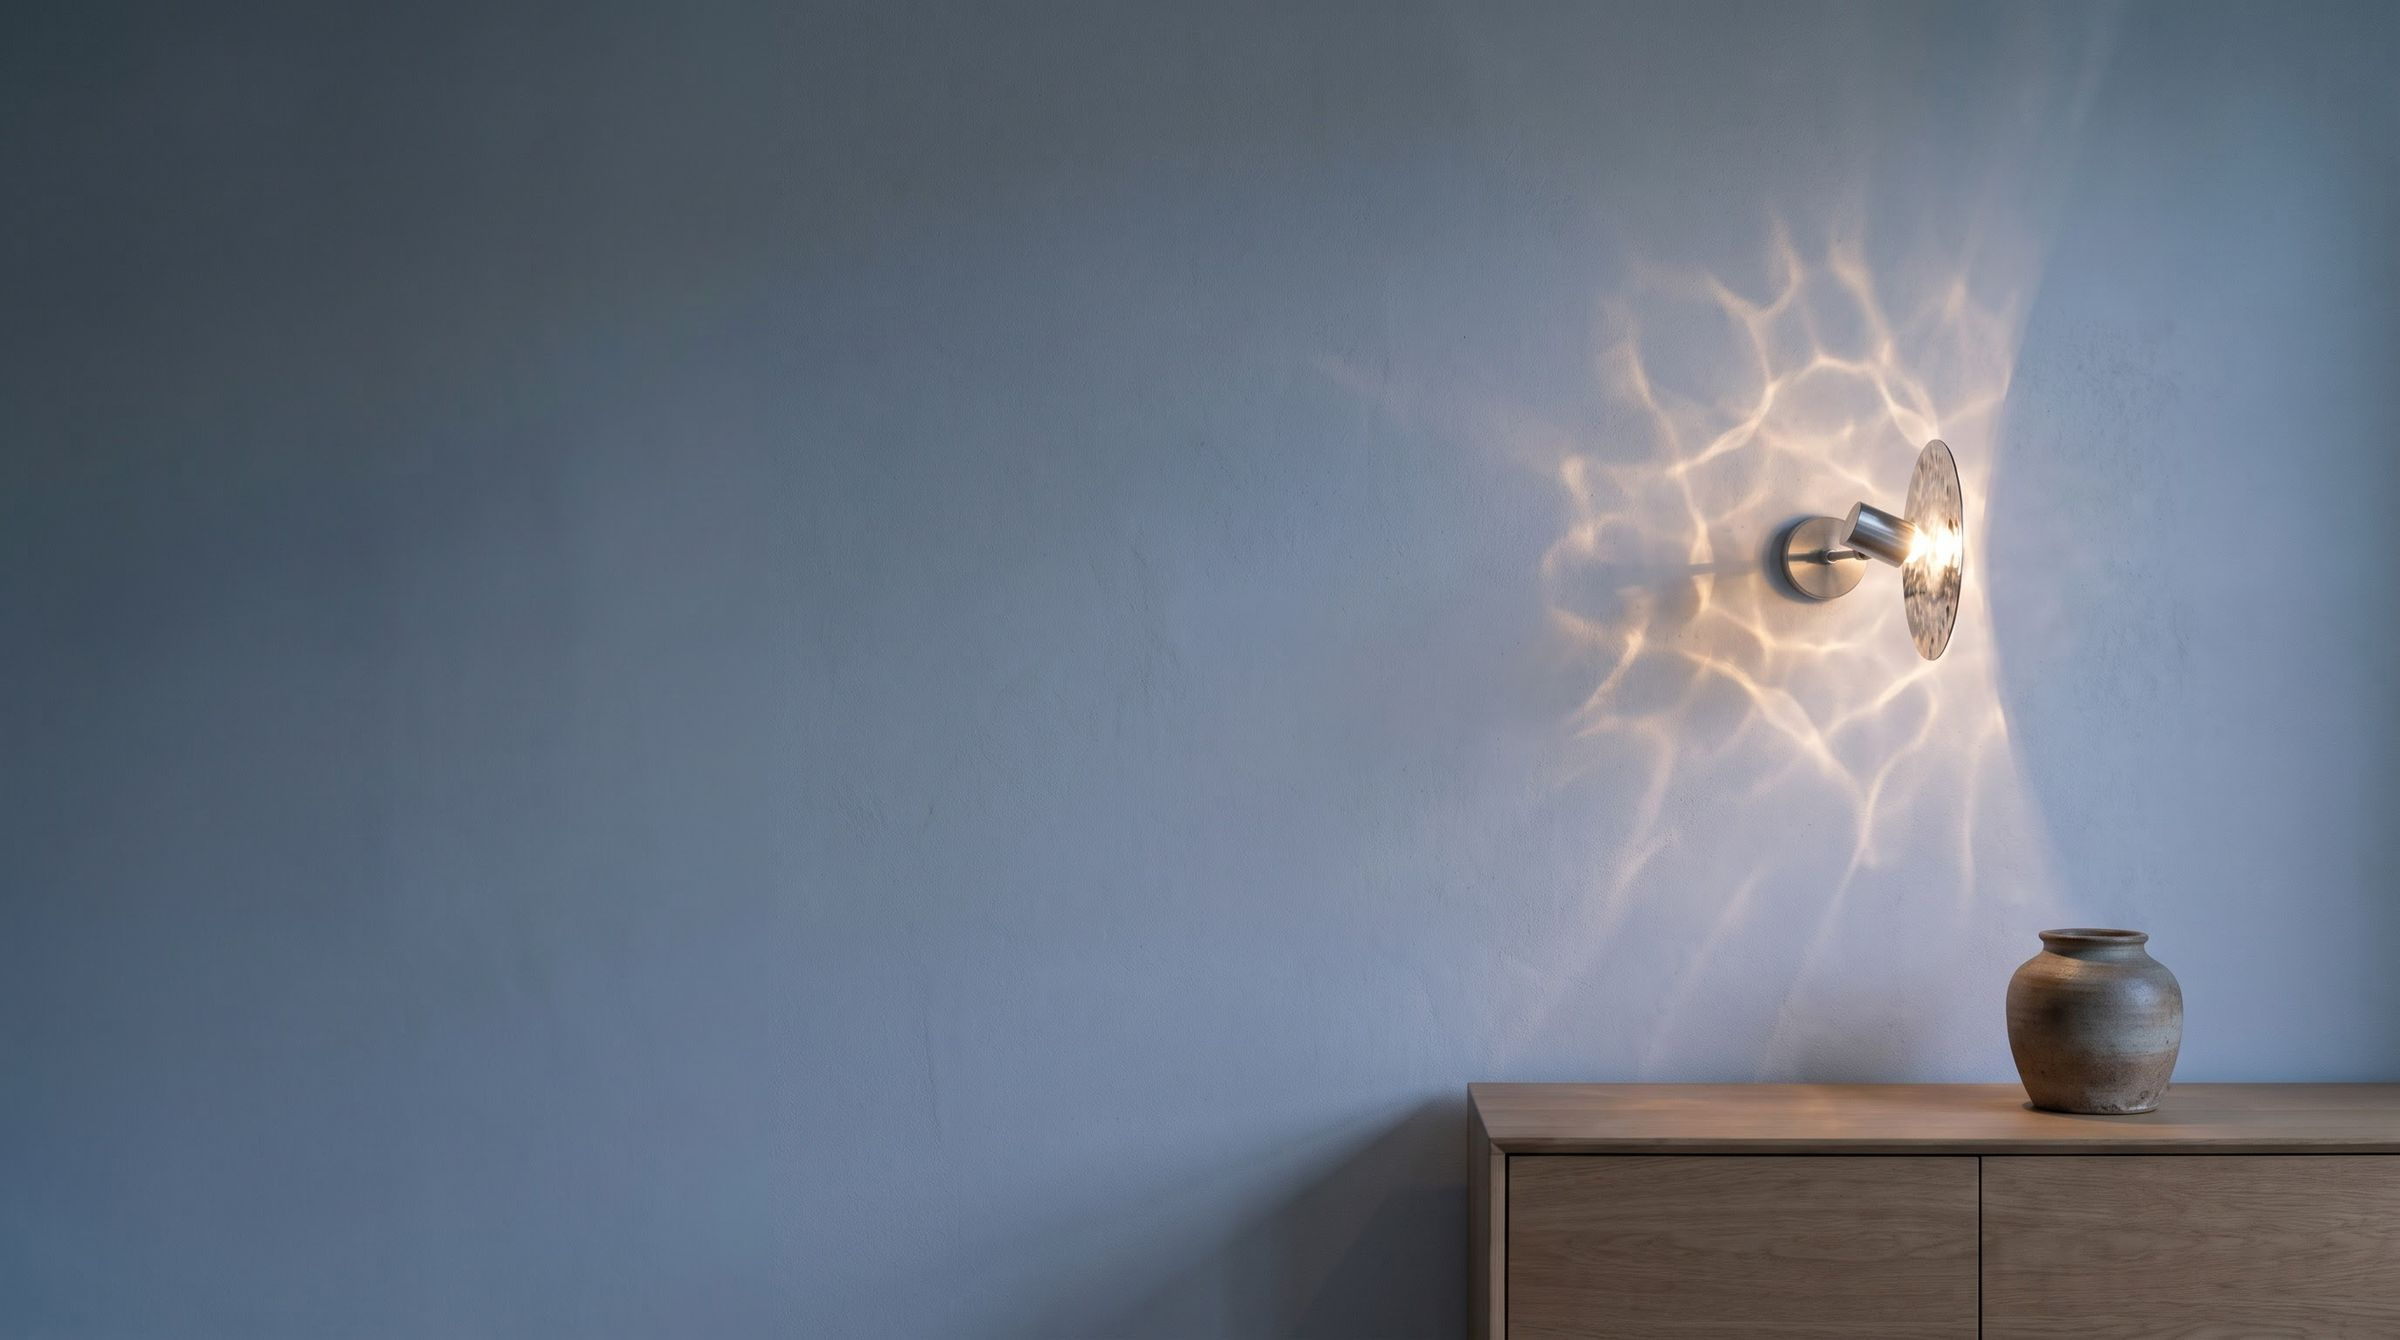
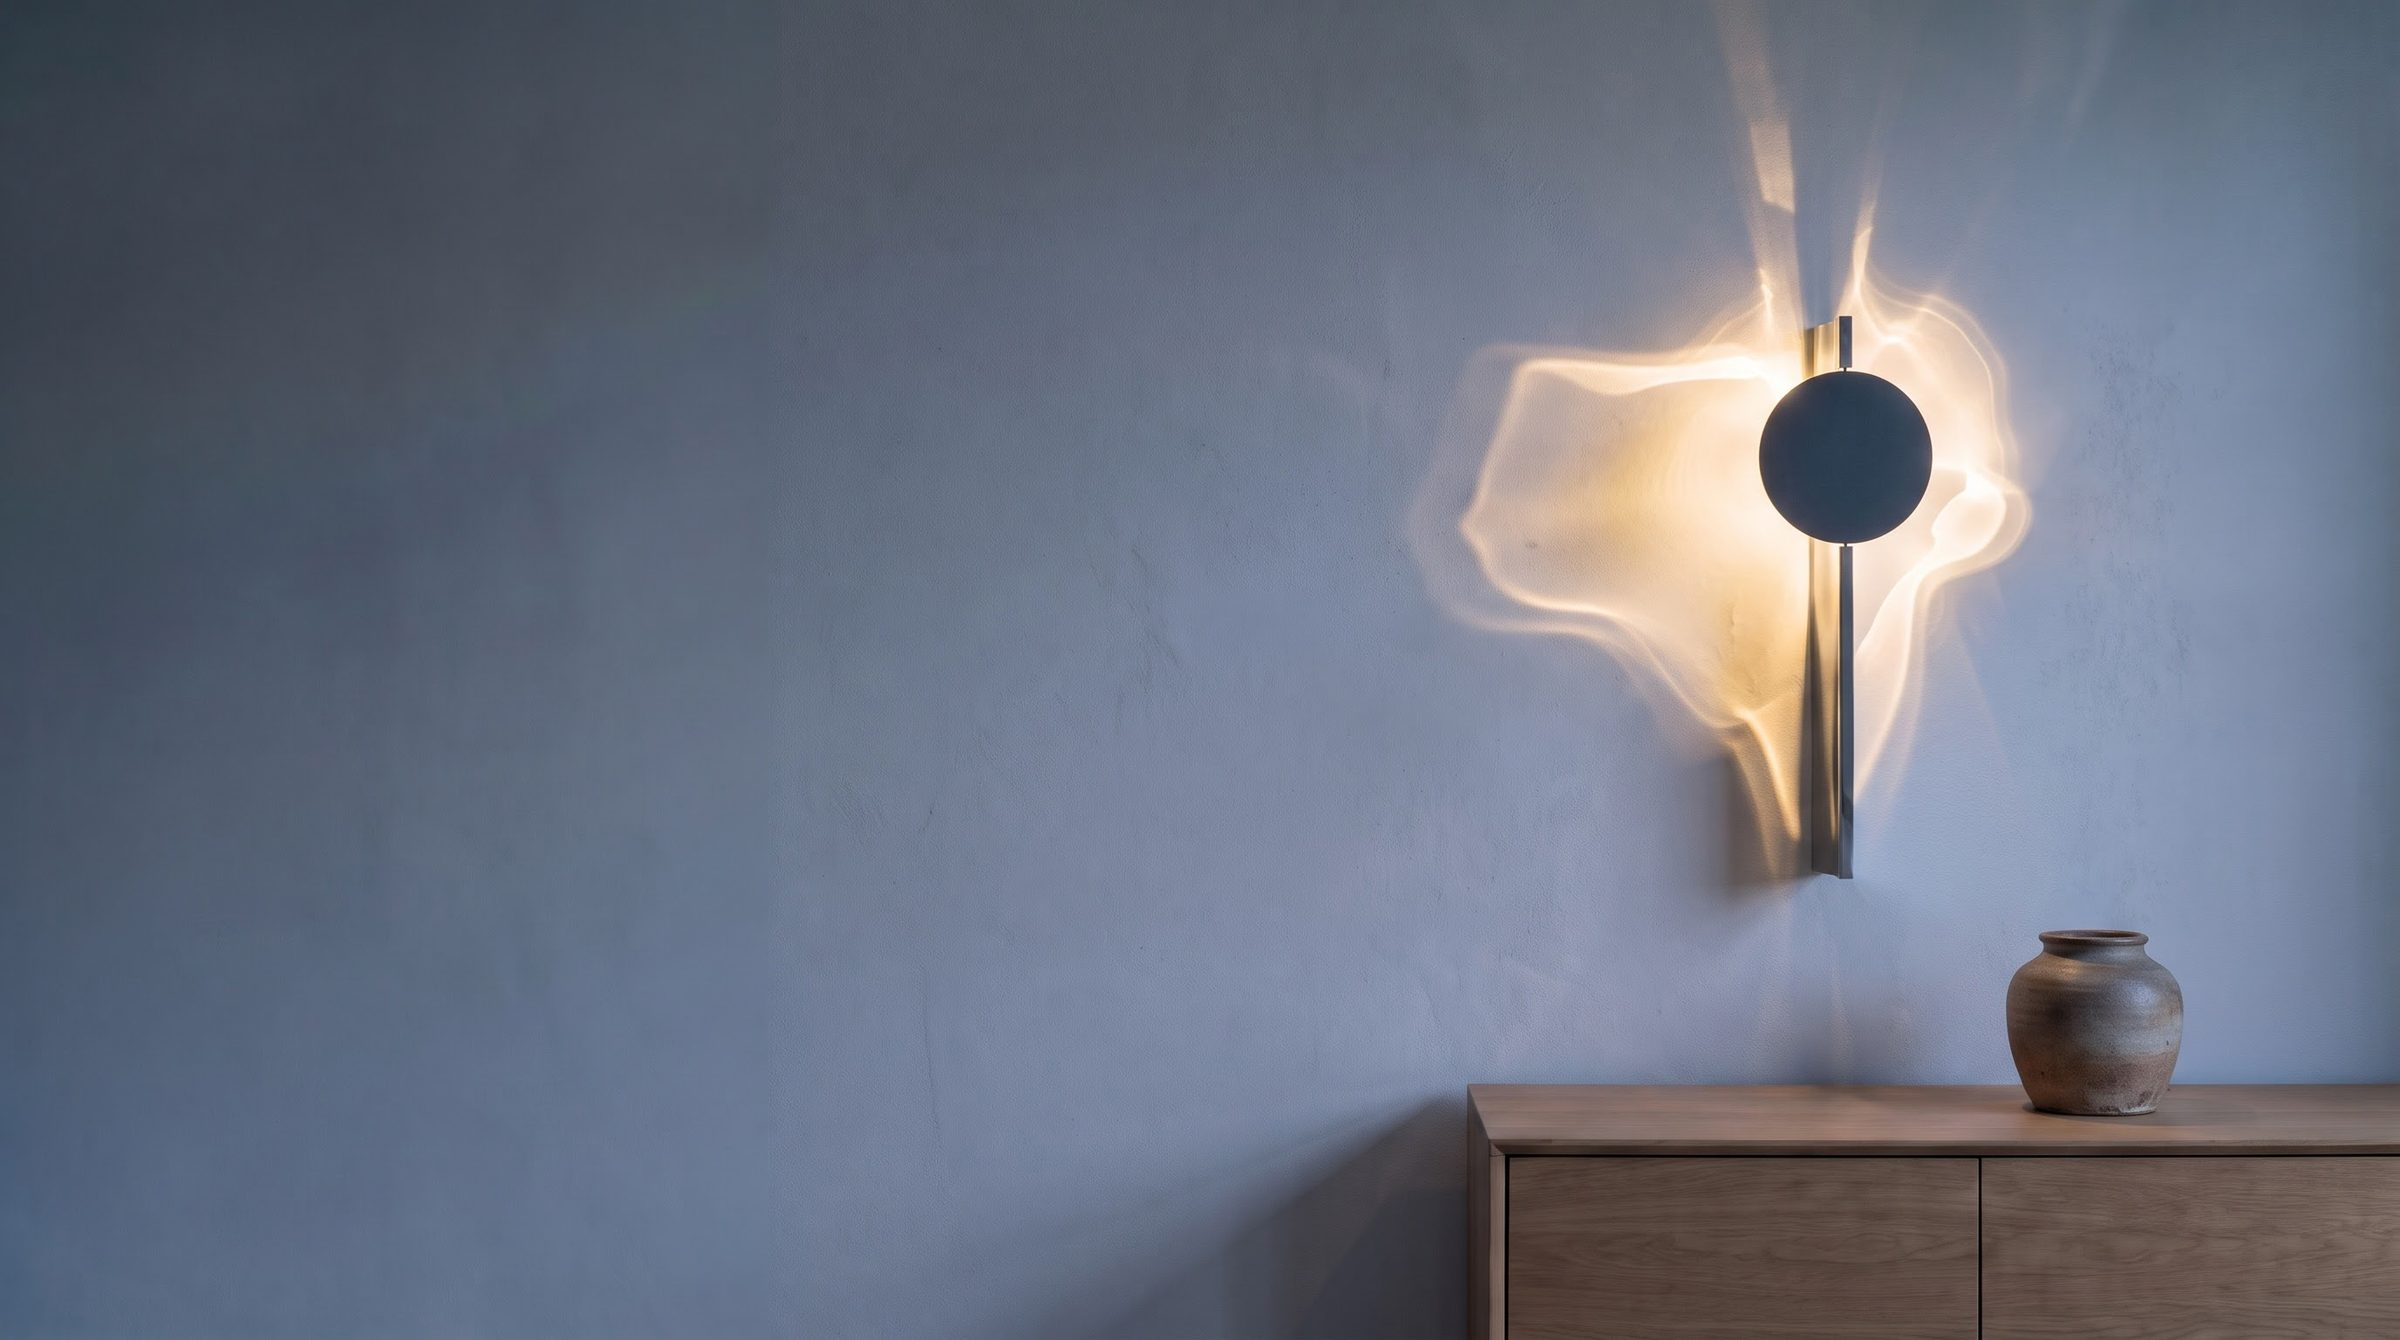
Lichtval: hero met de echte CJ-lamp
Oude hero bewerkt (fal): lamp vervangen, compositie gelijk; lichtpunt van het
'lamp gaat aan'-effect bijgesteld.

Claude-Session: https://claude.ai/code/session_019EKctzivrXhyaTJaTQ3Z4k

diff --git a/apps/storefront/src/stores/lichtval.ts b/apps/storefront/src/stores/lichtval.ts
@@ -52,17 +52,17 @@ export const lichtval: StoreConfig = {
     cta: "Bekijk de lamp",
     wide: {
       src: "/stores/lichtval/hero-breed.jpg",
-      alt: "Een wandlamp van aluminium en staal op een lichte muur in de schemering, met een golvend lichtpatroon eromheen.",
+      alt: "De Lichtval wandlamp aan op een blauwgrijze muur in de schemering, met een sluier van warm licht eromheen.",
       width: 2400,
       height: 1340,
     },
     tall: {
       src: "/stores/lichtval/hero-mobiel.jpg",
-      alt: "Een wandlamp van aluminium en staal op een lichte muur in de schemering, met een golvend lichtpatroon eromheen.",
+      alt: "De Lichtval wandlamp aan op een blauwgrijze muur in de schemering, met een sluier van warm licht eromheen.",
       width: 1290,
       height: 2311,
     },
-    lightOrigin: { wide: { x: 77, y: 46 }, tall: { x: 56, y: 33 } },
+    lightOrigin: { wide: { x: 77, y: 33 }, tall: { x: 57, y: 33 } },
   },
 
   intro: {

diff --git a/docs/beslissingen/lichtval.md b/docs/beslissingen/lichtval.md
@@ -85,10 +85,11 @@ de CJ-lamp. Vervangen door nieuwe AI-beelden op basis van de CJ-productfoto's:
 | Ruimte "Boven de bank" (`woonkamer.jpg`) | woonkamer-b, 4:5 uitgesneden |
 | Ruimte "Naast het bed" (`slaapkamer.jpg`): set van twee | duo-a |
 | Ruimte "In de hal" (`hal.jpg`) | story-a, 4:5 uitgesneden |
+| Hero breed + mobiel (`hero-breed.jpg`, `hero-mobiel.jpg`) | oude hero bewerkt: lamp vervangen, compositie gelijk (lichtpunt 77/33 en 57/33) |
 | Advertenties (`marketing/lichtval/`) | feed-b (4:5), story-a (9:16) |
 
 Afgekeurd: feed-a (dubbele band bovenin), duo-b (zichtbaar snoer, aansluiting nog onbekend).
-Kosten: 10 beelden ≈ $1,50. Echte maten van de "Small": 33 cm hoog, schijf 10,5 cm, 8 cm diep,
+Kosten: 12 beelden ≈ $1,80. De kop "Waterlicht op je muur." blijft voorlopig staan. Echte maten van de "Small": 33 cm hoog, schijf 10,5 cm, 8 cm diep,
 220 V (maattekening CJ). Na de sample vervangen door eigen foto's.
 
 ## Volgende stappen
